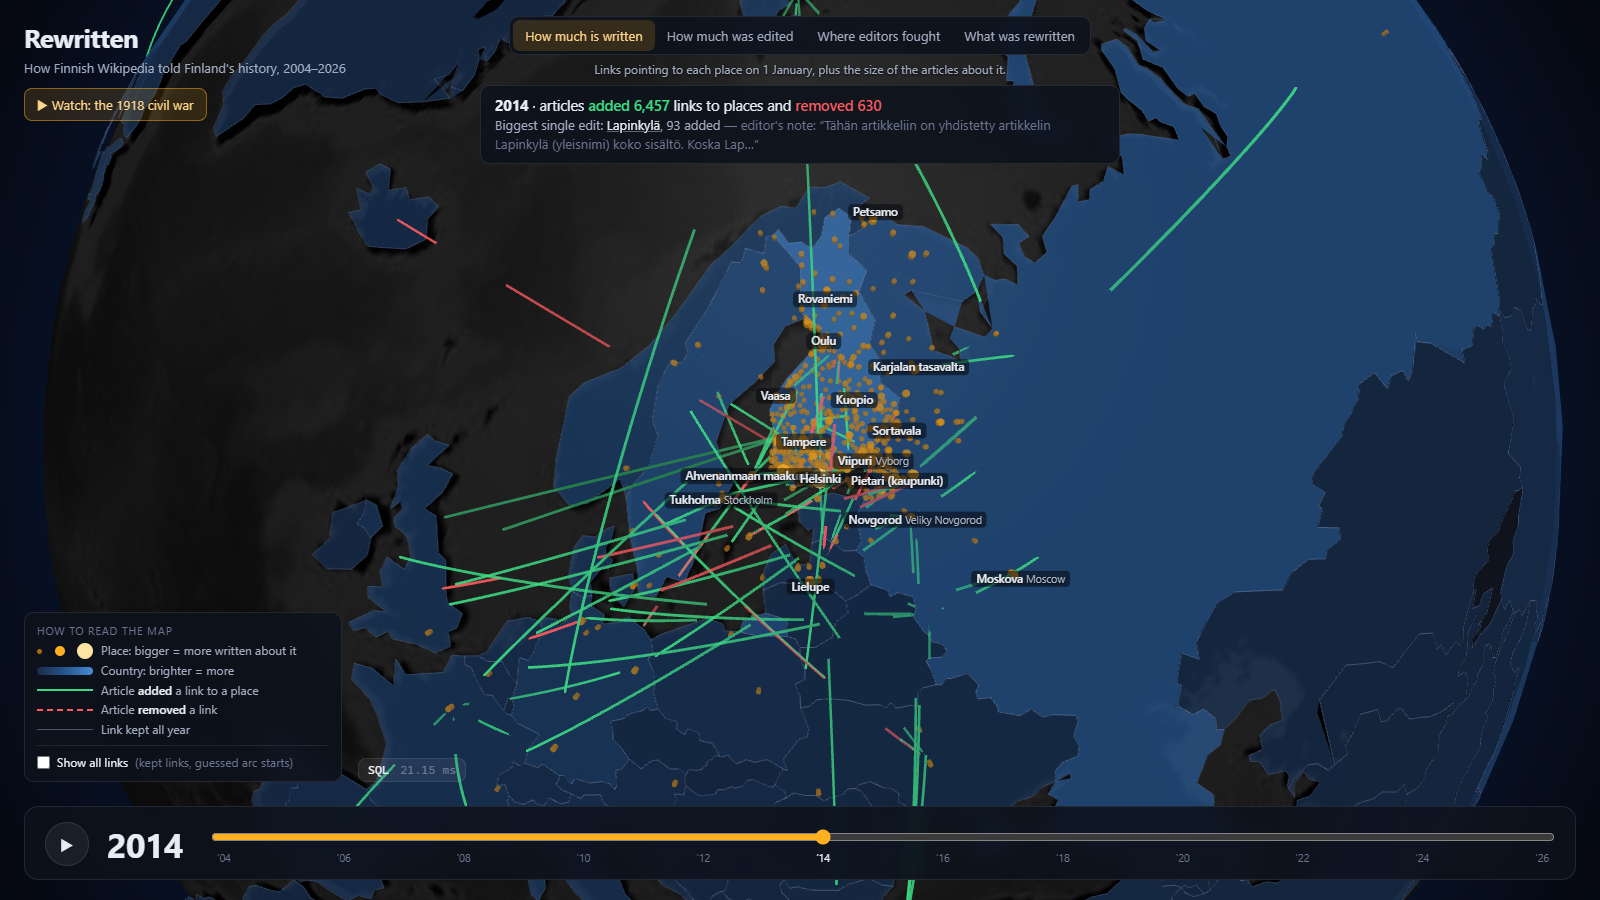
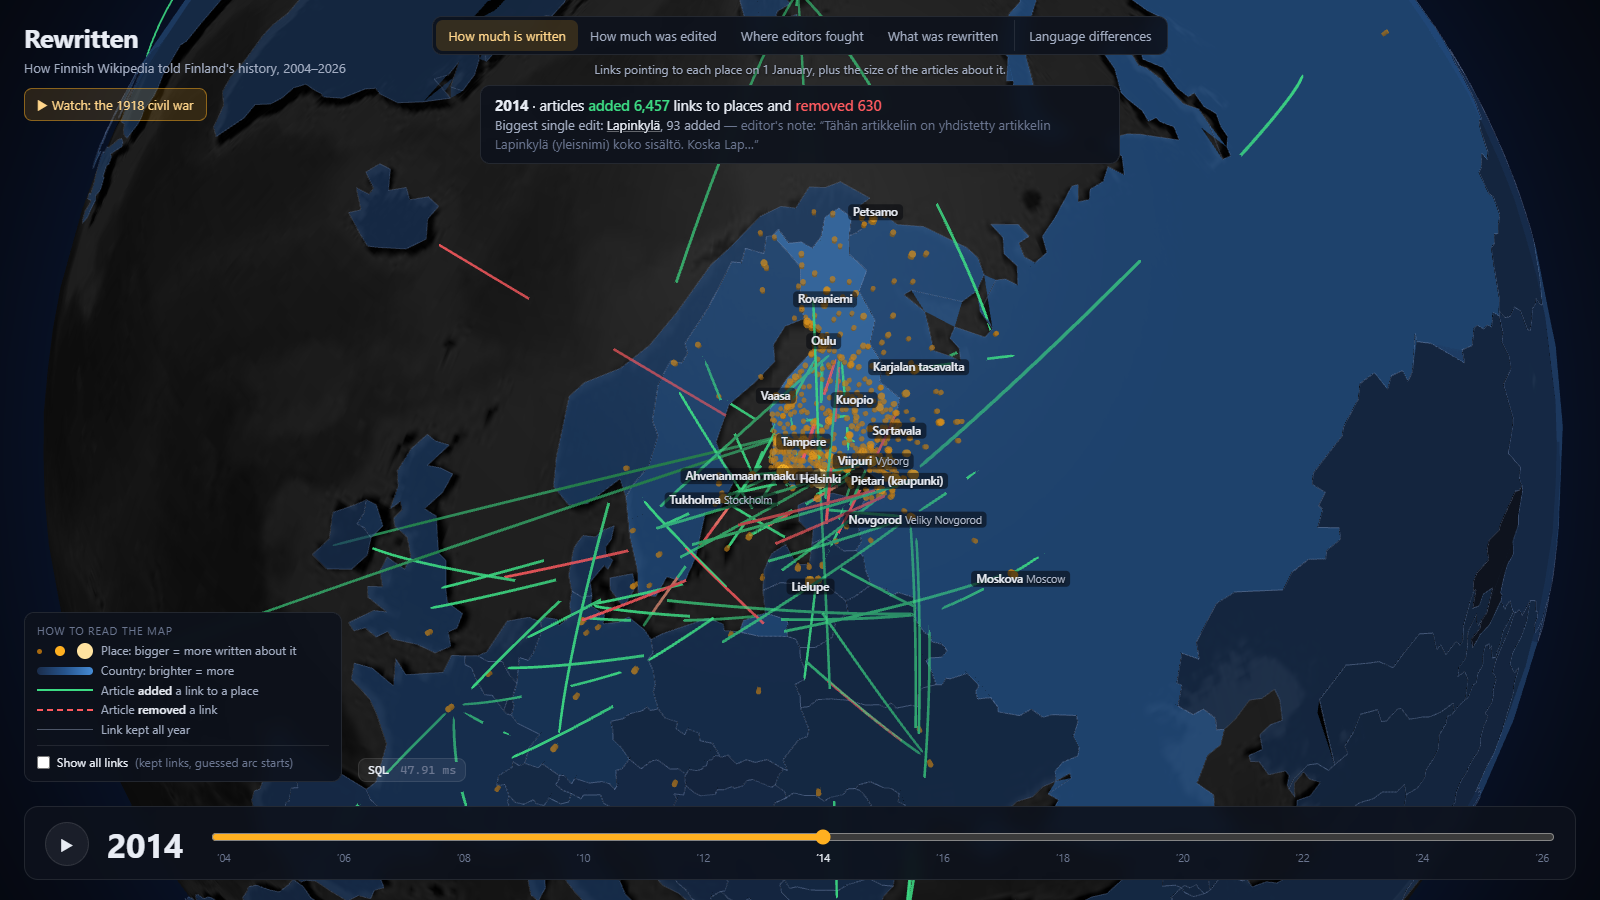
Globe language lines (sv/en, coloured by difference) and real comparison rows for the top 40 worklist topics

diff --git a/web/globe/src/main.js b/web/globe/src/main.js
@@ -39,7 +39,12 @@ const LANG_END = {
   en: { lat: 51.5072, lon: -0.1276, title: 'en', name: 'English Wikipedia' },
 };
 const DIFF_RAMP = [[61, 220, 132], [255, 200, 60], [255, 90, 95]];   // same -> different
-const diffT = (d) => Math.max(0, Math.min(1, (d - 0.15) / (0.40 - 0.15)));  // cosine distance p10..p97
+const diffT = (d) => Math.max(0, Math.min(1, (d - 0.15) / (0.40 - 0.15)));  // tooltips: cosine distance p10..p97
+// Lines and dots: percentile within the language, so green = more alike than most, red = among the most different.
+// Lines: only the most different 15 % per language are drawn clearly; the rest stay a faint haze.
+const LINE_TOP = 0.15;
+const topShare = (t) => Math.max(0, (t - (1 - LINE_TOP)) / LINE_TOP) ** 1.5;
+function pctRank(values) { const s = [...values].sort((a, b) => a - b); return (v) => (s.length > 1 ? s.findIndex((x) => x >= v) / (s.length - 1) : 0); }
 const compareUrl = (q) => `/contested/#compare/${q}`;
 let langLines = null;   // /api/lang-lines response (cached)
 const isLang = () => state.metric === 'language';
@@ -161,7 +166,7 @@ const globe = new Globe($('globe'), { animateIn: false })
   .pointsMerge(false)
   .pointsTransitionDuration(0)
   .pointAltitude((d) => (d.lang ? 0.012 : 0.007 + 0.012 * d.t))
-  .pointRadius((d) => zoom * (d.lang ? 0.12 + 0.18 * d.t : 0.06 + 0.42 * d.t))
+  .pointRadius((d) => zoom * (d.lang ? (d.inferred ? 0.06 : 0.12) + 0.18 * d.t : 0.06 + 0.42 * d.t))
   .pointColor((d) => (d.lang ? rgba(ramp(DIFF_RAMP, d.t), 0.95) : rgba(ramp(POINT_RAMP, 0.15 + 0.85 * d.t), 0.7 + 0.28 * d.t)))
   .pointLabel((d) => (d.lang ? langTip(d.topic) : `<div class="tip"><b>${both(d)}</b><br><span class="k">${esc(d.kind || d.category)}</span><br><b>${fmt(d.value)}</b> ${METRIC[state.metric].unit} in ${state.year}<br><span class="k">click for its articles</span></div>`))
   .onPointClick((d) => (d.lang ? (location.href = compareUrl(d.wikidata_id)) : openPlace(d.title)))
@@ -184,11 +189,11 @@ const globe = new Globe($('globe'), { animateIn: false })
   .arcStartLat((d) => d.from.lat).arcStartLng((d) => d.from.lon)
   .arcEndLat((d) => d.to.lat).arcEndLng((d) => d.to.lon)
   .arcColor((d) => {
-    if (d.lang) { const c = ramp(DIFF_RAMP, d.t); return [rgba(c, 0.15 + 0.5 * d.t), rgba(c, 0.35 + 0.6 * d.t)]; }
+    if (d.lang) { const c = ramp(DIFF_RAMP, d.t), a = 0.025 + 0.9 * topShare(d.t); return [rgba(c, a * 0.5), rgba(c, a)]; }
     const a = d.status === 'same' ? (d.origin_inferred ? 0.06 : 0.14) : (d.origin_inferred ? 0.3 : 0.95);
     return [rgba(ARC[d.status], a * 0.55), rgba(ARC[d.status], a)];
   })
-  .arcStroke((d) => zoom * (d.lang ? 0.05 + 0.12 * d.t : d.status === 'same' ? 0.04 : (d.origin_inferred ? 0.09 : 0.14) + 0.04 * Math.min(3, d.weight)))
+  .arcStroke((d) => zoom * (d.lang ? 0.02 + 0.16 * topShare(d.t) : d.status === 'same' ? 0.04 : (d.origin_inferred ? 0.09 : 0.14) + 0.04 * Math.min(3, d.weight)))
   .arcAltitudeAutoScale(0.16)
   .arcDashLength((d) => (d.lang || d.status === 'same' ? 1 : d.status === 'added' ? 0.55 : 0.25))
   .arcDashGap((d) => (d.lang || d.status === 'same' ? 0 : d.status === 'added' ? 0.25 : 0.2))
@@ -289,7 +294,7 @@ function langTip(t, only = null) {
       + `distance <b>${d.toFixed(3)}</b>${miss != null ? ` · ${fmt(miss)} Finnish sentences missing` : ''}`;
   };
   return `<div class="tip"><b>${esc(t.titles.fi)}</b>${t.titles.en !== t.titles.fi ? ` <span class="en">${esc(t.titles.en)}</span>` : ''}<br>
-    ${(only ? [only] : ['sv', 'en']).map(line).join('<br>')}<br><span class="k">click to compare fi / sv / en</span></div>`;
+    ${(only ? [only] : ['sv', 'en']).map(line).join('<br>')}<br>${t.place ? `<span class="k">placed at ${esc(t.place)}, the place its article links most</span><br>` : ''}<span class="k">click to compare fi / sv / en</span></div>`;
 }
 
 async function renderLanguage(seq) {
@@ -299,11 +304,14 @@ async function renderLanguage(seq) {
   globe.polygonCapColor(() => 'rgba(20,27,42,0.72)');
   globe.polygonsData(countryFeatures);
   const topics = langLines.data;
+  const rank = { sv: pctRank(topics.map((t) => t.fi_sv)), en: pctRank(topics.map((t) => t.fi_en)) };
   const dots = topics.map((t) => ({ lang: true, topic: t, wikidata_id: t.wikidata_id, title: t.titles.fi,
-    lat: t.lat, lon: t.lon, value: Math.max(t.fi_sv, t.fi_en), t: diffT(Math.max(t.fi_sv, t.fi_en)) }));
+    inferred: t.located_by === 'inferred',
+    lat: t.lat, lon: t.lon, value: (rank.sv(t.fi_sv) + rank.en(t.fi_en)) / 2,
+    t: (rank.sv(t.fi_sv) + rank.en(t.fi_en)) / 2 }));
   globe.pointsData(dots);
   // Most different on top: draw the calm lines first.
-  const lines = topics.flatMap((t) => ['sv', 'en'].map((l) => ({ lang: l, topic: t, t: diffT(t[`fi_${l}`]),
+  const lines = topics.flatMap((t) => ['sv', 'en'].map((l) => ({ lang: l, topic: t, t: rank[l](t[`fi_${l}`]),
     from: { lat: t.lat, lon: t.lon }, to: LANG_END[l] }))).sort((a, b) => a.t - b.t);
   globe.arcsData(lines);
   $('lang-count').textContent = fmt(topics.length);

diff --git a/web/globe/index.html b/web/globe/index.html
@@ -48,8 +48,8 @@
     <div class="legend-row"><span class="line removed"></span><span>Article <b>removed</b> a link</span></div>
     <div class="legend-row"><span class="line same"></span><span>Link kept all year</span></div>
     <div class="legend-lang">
-      <div class="legend-row"><span class="dot-lang"></span><span><b id="lang-count">…</b> articles with a place. Line to <b>sv</b> (Stockholm) and <b>en</b> (London)</span></div>
-      <div class="legend-row"><span class="ramp ramp-diff"></span><span>green = same as Finnish, red = differs most</span></div>
+      <div class="legend-row"><span class="dot-lang"></span><span><b id="lang-count">…</b> articles in fi + sv + en, at their place (small dot = the place its article links most). Line to <b>sv</b> (Stockholm) and <b>en</b> (London)</span></div>
+      <div class="legend-row"><span class="ramp ramp-diff"></span><span>green = closer to the Finnish article than most, red = among the most different. Bright lines: the 15 % most different per language</span></div>
       <div class="legend-note">Cosine distance between the whole articles' bge-m3 vectors (dataset S, Aug 2025). Click to compare sentence by sentence.</div>
     </div>
     <label class="legend-toggle"><input type="checkbox" id="show-all"> <span style="color:var(--ink)">Show all links</span> <span>(kept links, guessed arc starts)</span></label>

diff --git a/api/editor.py b/api/editor.py
@@ -153,11 +153,14 @@ def compare(wikidata_id: str):
 
 
 # Where each topic is on the globe: the Finnish article's own place (page_place, from Wikidata),
-# else Kristian's article_geo (coordinates in the Finnish wikitext). Different-subject topics left out.
+# else Kristian's article_geo (coordinates in the Finnish wikitext), else the place its article links
+# most today (page_origin 2026, "inferred": Niinistö -> Salo, his birthplace). Different-subject topics
+# left out.
 LANG_LINES_SQL = """SELECT d.wikidata_id, fi.title AS title_fi, en.title AS title_en, sv.title AS title_sv,
        d.fi_sv, d.fi_en, d.score, d.missing_sv, d.missing_en,
-       COALESCE(p.lat, g.lat) AS lat, COALESCE(p.lon, g.lon) AS lon,
-       IF(p.title IS NOT NULL, 'page_place', 'article_geo') AS located_by
+       COALESCE(p.lat, g.lat, op.lat) AS lat, COALESCE(p.lon, g.lon, op.lon) AS lon,
+       CASE WHEN p.title IS NOT NULL THEN 'page_place' WHEN g.page_id IS NOT NULL THEN 'article_geo'
+            ELSE 'inferred' END AS located_by, op.title AS inferred_place
 FROM article_divergence d
 JOIN lang_topic t USING (wikidata_id)
 JOIN lang_article fi ON fi.lang = 'fi' AND fi.page_id = t.fi_page_id
@@ -166,8 +169,10 @@ JOIN lang_article en ON en.lang = 'en' AND en.page_id = t.en_page_id
 LEFT JOIN page_place pp ON pp.page_id = t.fi_page_id
 LEFT JOIN place p ON p.title = pp.place_title
 LEFT JOIN article_geo g ON g.page_id = t.fi_page_id
+LEFT JOIN page_origin o ON o.page_id = t.fi_page_id AND o.year = 2026
+LEFT JOIN place op ON op.title = o.place_title
 WHERE NOT d.different_subject
-  AND (p.title IS NOT NULL OR g.page_id IS NOT NULL)
+  AND (p.title IS NOT NULL OR g.page_id IS NOT NULL OR op.title IS NOT NULL)
 ORDER BY d.score DESC"""
 
 
@@ -179,6 +184,7 @@ def lang_lines():
     data = [{"wikidata_id": r["wikidata_id"],
              "titles": {"fi": r["title_fi"], "sv": r["title_sv"], "en": r["title_en"]},
              "lat": float(r["lat"]), "lon": float(r["lon"]), "located_by": r["located_by"],
+             "place": r["inferred_place"] if r["located_by"] == "inferred" else None,
              "fi_sv": _num(r["fi_sv"]), "fi_en": _num(r["fi_en"]), "score": _num(r["score"]),
              "missing_sv": r["missing_sv"], "missing_en": r["missing_en"]} for r in rows]
     return {"sql": LANG_LINES_SQL, "ms": ms, "data": data}

diff --git a/api/tests/test_editor.py b/api/tests/test_editor.py
@@ -86,3 +86,17 @@ def test_compare_without_sentences_says_so(client):
 
 def test_compare_unknown_topic_is_404(client):
     assert client.get("/api/compare/Q1").status_code == 404
+
+
+def test_lang_lines_for_the_globe(client):
+    body = client.get("/api/lang-lines").json()
+    rows = body["data"]
+    assert "FROM article_divergence" in body["sql"] and len(rows) > 800
+    assert {r["located_by"] for r in rows} <= {"page_place", "article_geo", "inferred"}
+    by_id = {r["wikidata_id"]: r for r in rows}
+    assert by_id["Q211855"]["located_by"] == "page_place"
+    assert by_id["Q29207"]["place"] == "Salo"                     # inferred: his most-linked place
+    flagged = {x["wikidata_id"] for x in client.get("/api/worklist?limit=3000&include_flagged=1").json()["data"]}
+    kept = {x["wikidata_id"] for x in client.get("/api/worklist?limit=3000").json()["data"]}
+    assert not (set(by_id) & (flagged - kept))                     # different-subject topics hidden
+    assert all(0 <= r["fi_sv"] <= 2 and 0 <= r["fi_en"] <= 2 for r in rows)

diff --git a/NOTES.md b/NOTES.md
@@ -851,3 +851,40 @@ the Finnish and Swedish texts just share no sentence closely enough.
   Topics without sentences answer `rows: []` + `note` (recorded in contracts.md).
 - `tzdata` added to requirements (pyarrow needs it on Windows to read dataset M's times).
 - Tests: **69 passed** (new `api/tests/test_editor.py` checks both routes field by field against the mocks).
+
+## Editor tool: globe language lines + top-40 comparisons (2026-11-14)
+
+### A. "Language differences" on the globe (`web/globe`, `GET /api/lang-lines`)
+- Fifth button next to the metrics. Each topic in fi + sv + en is a dot at its place; lines go from it
+  to **Stockholm (sv)** and **London (en)**, labelled at the ends "SV Swedish Wikipedia" / "EN English
+  Wikipedia". Year slider and caption are hidden (dataset S is one snapshot, Aug 2025).
+  Clicking a dot or a line opens `/contested/#compare/<wikidata_id>` (Kristian's React route).
+  Legend entry + SQL drawer show the query. `/api/lang-lines`: 2,682 topics, 88 ms.
+- **Where a topic is:** page_place (Wikidata, 860), else article_geo (Finnish wikitext coordinates, 7),
+  else **inferred** = the place its Finnish article links most today (`page_origin` 2026, 1,815; drawn
+  as a smaller dot, the tooltip says so). *Decision:* without the inferred places only 867 topics had a
+  place and Niinistö was missing. **Niinistö lands at Salo** (his birthplace, his article's most-linked
+  place), not Helsinki as CLAUDE.md's example says: the data's answer, kept.
+- **Colour:** percentile of the distance within each language (green = closer to the Finnish article
+  than most, red = among the most different), not the raw distance: raw values cluster around the
+  median and everything looked orange. **Only the 15 % most different lines per language are drawn
+  clearly**; the rest are a faint haze. Two earlier versions (all lines equally visible; then a cubic
+  fade) were a red hairball at 2,682 × 2 lines. Dot colour = mean of the two percentiles.
+- Different-subject topics are hidden. Screenshots: `docs/screenshots/language-differences.png`
+  (Europe view, the default for this mode) and `language-differences-finland.png` (`?view=home`).
+- Still dense over Finland: most topics are Finnish places. The bright lines and the labels (most
+  different first) carry the message; zooming in helps.
+
+### B. Real comparison rows for the top 40 of the worklist
+`ingest.embed_cpu --topics <top 40 by rank, different-subject excluded>` (list in `data/top40.txt`):
+18 were already embedded as extreme candidates; the other 22 = **5,366 sentences in 6 min 58 s** (15.0
+sentences/s), then `db.lang_match` (40 topics, 2.9 s) and `db.build_divergence`.
+**197 topics now have sentence data** (heroes + 20 calibration + 153 candidates + 22). `/api/compare`
+returns real rows for all of the top 40 (e.g. Muinaissukset: 10 ms).
+Honest caveat: the top of the worklist is dominated by topics where the Finnish article is far longer
+(Muinaissukset: 706 Finnish sentences, 696 missing in English). That is real missing content, but it
+means "most different" ≈ "Finnish is much longer" for many topics.
+
+### C. Checks
+Tests **70 passed** (+ `test_lang_lines_for_the_globe`). Screenshots of the normal modes re-taken
+(2014, landing, story) and unchanged apart from the new button.
